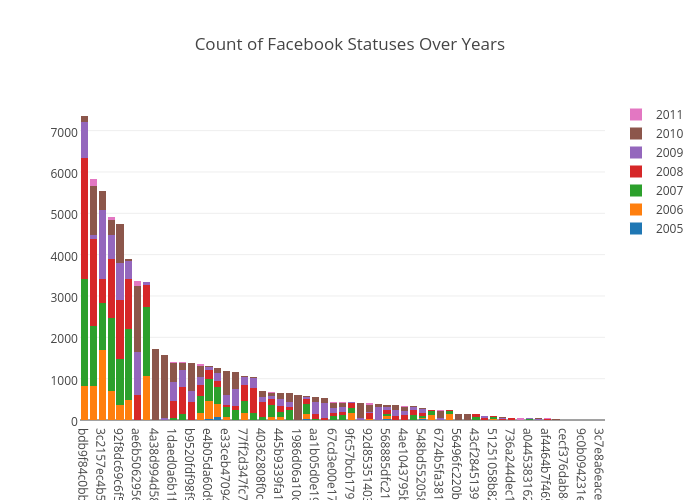
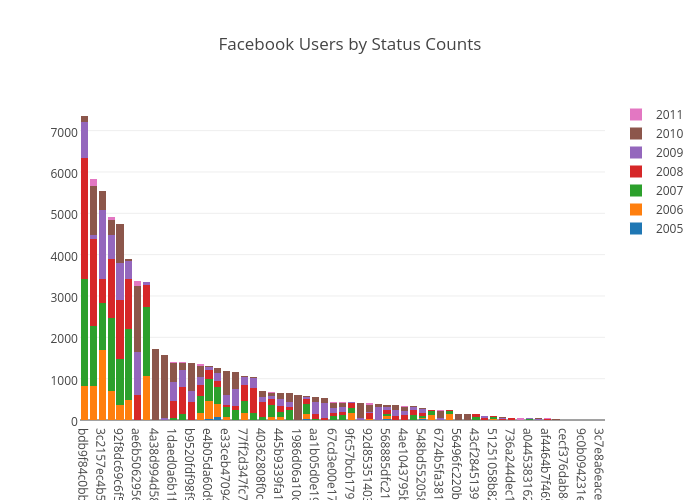
renamed and reordered stuff

Changed region(s): [[0.27, 0.06, 0.72, 0.12]]

diff --git a/status_reader.py b/status_reader.py
@@ -12,6 +12,7 @@ plotly_api = os.environ['PLOTLY_API_KEY']
 print plotly_id, plotly_api
 py.sign_in(plotly_id, plotly_api)
 
+
 def xldate_to_datetime(xldate):
   tempDate = datetime.datetime(1900, 1, 1)
   deltaDays = datetime.timedelta(days=int(xldate))
@@ -20,39 +21,6 @@ def xldate_to_datetime(xldate):
   TheTime = (tempDate + deltaDays + detlaSeconds )
   return TheTime.strftime("%Y")
 
-def status_heatmap(x, y, z):
-	data = [
-	    go.Heatmap(
-	    	x=x,
-	    	y=y,
-	        z=z
-	        )
-	]
-	layout = go.Layout(
-	   title='Count of Facebook Statuses Over Years'
-	)
-	fig = go.Figure(data=data, layout=layout)
-	plot_url = py.plot(fig, filename='user_stat_heatmap')
-
-def status_bargraph(y, formatted_dates, user_ids, users):
-	data = []
-	for i in xrange(len(formatted_dates)):
-		y_vals = []
-		for z in xrange(len(user_ids)):
-			y_vals.append(users[user_ids[z]].count(formatted_dates[i]))
-		current_trace = go.Bar(
-			x = user_ids,
-			y = y_vals,
-			name = formatted_dates[i]
-			)
-		data.append(current_trace)
-
-	layout = go.Layout(
-	    barmode='stack',
-	    title='Count of Facebook Statuses Over Years'
-	)
-	fig = go.Figure(data=data, layout=layout)
-	plot_url = py.plot(fig, filename='stat_count_year')
 
 def load_statuses(dates, statuses, users):
 	with open('data/statuses.csv', 'rb') as csvfile:
@@ -95,6 +63,41 @@ def print_statuses(status_file_name, statuses, keywords, keyword_stats):
     		json.dump(keyword_stats, outfile, ensure_ascii=False)
 
 
+def status_heatmap(x, y, z):
+	data = [
+	    go.Heatmap(
+	    	x=x,
+	    	y=y,
+	        z=z
+	        )
+	]
+	layout = go.Layout(
+	   title='Count of Facebook Statuses Over Years'
+	)
+	fig = go.Figure(data=data, layout=layout)
+	plot_url = py.plot(fig, filename='user_stat_heatmap')
+
+def status_bargraph(y, formatted_dates, user_ids, users):
+	data = []
+	for i in xrange(len(formatted_dates)):
+		y_vals = []
+		for z in xrange(len(user_ids)):
+			y_vals.append(users[user_ids[z]].count(formatted_dates[i]))
+		current_trace = go.Bar(
+			x = user_ids,
+			y = y_vals,
+			name = formatted_dates[i]
+			)
+		data.append(current_trace)
+
+	layout = go.Layout(
+	    barmode='stack',
+	    title='Facebook Users by Status Countss'
+	)
+	fig = go.Figure(data=data, layout=layout)
+	plot_url = py.plot(fig, filename='stat_count_year')
+
+
 def main():
 
 	users = {}
@@ -105,7 +108,7 @@ def main():
 	stat_lengths = {}
 	for user in statuses.keys():
 		stat_lengths[user] = len(statuses[user])
-		
+
 	user_by_freq = sorted(stat_lengths, key=stat_lengths.get, reverse=True)
 	
 
@@ -136,7 +139,7 @@ def main():
 	# status_heatmap(users.keys(), formatted_dates, z)
 
 	#for stacked bargraph
-	#status_bargraph(users.keys(), formatted_dates, user_by_freq, users)
+	status_bargraph(users.keys(), formatted_dates, user_by_freq, users)
 
 
 if __name__ == "__main__":
